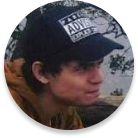
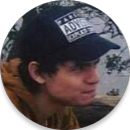
corregido cambios

diff --git a/src/components/CardPersonal.jsx b/src/components/CardPersonal.jsx
@@ -17,19 +17,20 @@ const CardPersonalComponent = () => {
       <div class="col-lg-2 col-xs-4 col-medidas mb-5">
         <div class="card mx-auto my-5 bg-card border-color">
           <div class="row">
-            <div className="col-8">
-              <img
+            <div className="centrado-medio col-8">
+              <img className="foto-linkedin"
                 src={beli}
                 alt="Foto del rostro de la persona 1"
-                class="mx-auto d-block pb-5 pt-2 bg-image"
+                class="mx-auto d-block pb-2 pt-2 bg-image"
               />
             </div>
             <div className="col-4 mt-4">
               <Link
                 target="_blank"
+                
                 to="https://www.linkedin.com/in/belén-oyarce-santibáñez/"
               >
-                <img
+                <img 
                   src={iconoLinkedIn}
                   alt="Icono de la persona 1"
                   class="small rounded-circle mx-auto d-block bg-linkedin"
@@ -46,11 +47,11 @@ const CardPersonalComponent = () => {
       <div class="col-lg-2 col-xs-4 col-medidas mb-5">
         <div class="card mx-auto my-5 bg-card ">
           <div class="row">
-            <div className="col-8">
-              <img
+            <div className="centrado-medio col-8">
+              <img className="foto-linkedin"
                 src={alfo}
                 alt="Foto del rostro de la persona 1"
-                class="mx-auto d-block pb-5 pt-2 bg-image"
+                class="mx-auto d-block pb-2 pt-2 bg-image"
               />
             </div>
             <div className="col-4 mt-4">
@@ -71,14 +72,15 @@ const CardPersonalComponent = () => {
           </h3>
         </div>
       </div>
+      
       <div class="col-lg-2 col-xs-4 col-medidas mb-5">
         <div class="card mx-auto my-5 bg-card ">
           <div class="row">
-            <div className="col-8">
-              <img
+            <div className="centrado-medio col-8">
+              <img className="foto-linkedin"
                 src={ari}
                 alt="Foto del rostro de la persona 1"
-                class="mx-auto d-block pb-5 pt-2 bg-image"
+                class="mx-auto d-block pb-2 pt-2 bg-image"
               />
             </div>
             <div className="col-4 mt-4">
@@ -102,14 +104,20 @@ const CardPersonalComponent = () => {
           </h3>
         </div>
       </div>
+
+
+
+
+
+
       <div class="col-lg-2 col-xs-4 col-medidas mb-5">
         <div class="card mx-auto my-5 bg-card ">
           <div class="row">
-            <div className="col-8">
-              <img
+            <div className="centrado-medio col-8">
+              <img className="foto-linkedin"
                 src={fran}
                 alt="Foto del rostro de la persona 1"
-                class="mx-auto d-block pb-5 pt-2 bg-image"
+                class="mx-auto d-block pb-2 pt-2 bg-image"
               />
             </div>
             <div className="col-4 mt-4">
@@ -133,14 +141,17 @@ const CardPersonalComponent = () => {
           </h3>
         </div>
       </div>
+
+
+
       <div class="col-lg-2 col-xs-4 col-medidas mb-5">
         <div class="card mx-auto my-5 bg-card ">
           <div class="row">
-            <div className="col-8">
-              <img
+            <div className="centrado-medio col-8">
+              <img className="foto-linkedin"
                 src={cono}
                 alt="Foto del rostro de la persona 1"
-                class="mx-auto d-block pb-5 pt-2 bg-image"
+                class="mx-auto d-block pb-2 pt-2 bg-image"
               />
             </div>
             <div className="col-4 mt-4">
@@ -164,6 +175,11 @@ const CardPersonalComponent = () => {
           </h3>
         </div>
       </div>
+
+
+      
+     
+     
     </div>
   );
 };

diff --git a/src/components/CarruselMain.jsx b/src/components/CarruselMain.jsx
@@ -29,7 +29,7 @@ const CarruselMainComponent = () => {
               <div class="col-sm-12 col-12 col-lg-6 col-md-6 pt-5">
                 <h1 class="titulo1">
                   TU
-                  <span class="img-logo">
+                  <span class="img-logo-cliente">
                     <img src={logoCampana} alt="logo campana" />
                   </span>
                 </h1>
@@ -46,9 +46,11 @@ const CarruselMainComponent = () => {
                 <p class="texto-info2 col-sm-12 col-12 ">
                   en donde quieras y revisar los mejores precios.
                 </p>
-                <button class="boton-reservar" type="btn">
+                  <a href="/reserva">
+                <button  class="boton-reservar" type="btn">
                   <span class="boton-reservar-texto">Reserva aquí</span>
                 </button>
+                  </a>
               </div>
               <div class="container col-sm-12 col-12 col-lg-6 col-md-6 pt-5">
                 <div class="row">
@@ -56,10 +58,14 @@ const CarruselMainComponent = () => {
                     <span>
                       <img src={logoUsuario} alt="logo usuario" />
                     </span>
+                    <a href="/registroadmin">
+                      
                     <span class="boton-admin-texto">
                       Soy Administrador o propietario de un recinto, necesito
                       información para unirme a <strong>Keepe</strong>
                     </span>
+                 
+                    </a>
                   </button>
                 </div>
               </div>

diff --git a/src/Assets/css/styleCardPersonal.css b/src/Assets/css/styleCardPersonal.css
@@ -9,11 +9,34 @@
   background-color: white;
 }
 
+.centrado-medio{
+  padding-left: 4rem;
+  padding-top: 1rem;
+}
+
+.foto-linkedin {
+  
+  padding-left: 1rem;
+  padding-top: 1rem;
+  padding-bottom: 1rem;
+  width: 10rem;
+  height: 10rem;
+}
+
+.foto-linkedin:hover {
+  
+  padding-left: 1rem;
+  padding-top: 1rem;
+  padding-bottom: 1rem;
+  width: 12rem;
+  height: 12rem;
+}
+
 .titulo-color {
   font-family: "Quicksand";
   font-style: normal;
   font-weight: 700;
-  font-size: 26px;
+  font-size: 25px;
   line-height: 32px;
   text-align: center;
   color: #ffffff;
@@ -22,19 +45,29 @@
   font-family: "Kumbh Sans";
   font-style: normal;
   font-weight: 400;
-  font-size: 24px;
+  font-size: 20px;
   line-height: 145%;
   text-align: center;
   color: #ffffff;
+  padding-left: 0.5rem;
+  padding-right: 0.5rem;
 }
 .col-medidas {
   width: 271.62px;
   height: 315px;
 }
 
+.centrado-medio:hover{
+  padding-left: 2.3rem;
+  padding-top: 1rem;
+}
+
 .bg-image:hover {
-  width: 102%;
-  height: 102%;
+  padding-left: 1rem;
+  padding-top: 1rem;
+  padding-bottom: 1rem;
+  width: 11rem;
+  height: 11rem;
 }
 
 .titulo-principal-color {

diff --git a/src/Assets/css/stylesCardReserva.css b/src/Assets/css/stylesCardReserva.css
@@ -47,7 +47,7 @@
   border-bottom-left-radius: 20px;
   border-bottom-right-radius: 20px;
   
-  border-color: #886eb2;
+  border-color: #a79eb5;
   border-top-color: #4d307b;
 }
 
@@ -69,7 +69,8 @@
   background-color: #4d307b;
   border-top-left-radius: 20px;
   border-top-right-radius: 20px;
-  border-bottom-color: #4d307b;
+  border-color: white;
+  border-bottom-color: #7052a0;
 }
 
 .raquiImagen3 {
@@ -79,7 +80,8 @@
   background-color: #4d307b;
   border-top-left-radius: 20px;
   border-top-right-radius: 20px;
-  border-bottom-color: #4d307b;
+  border-color: white;
+  border-bottom-color: #7052a0;
 }
 
 .raquiImagen4 {
@@ -89,7 +91,8 @@
   background-color: #4d307b;
   border-top-left-radius: 20px;
   border-top-right-radius: 20px;
-  border-bottom-color: #4d307b;
+  border-color: white;
+  border-bottom-color: #7052a0;
 }
 
 .raquiTextoImagen {

diff --git a/src/index.js b/src/index.js
@@ -1,17 +1,5 @@
-import React from 'react';
-import ReactDOM from 'react-dom/client';
-import './index.css';
-import App from './App';
-import reportWebVitals from './reportWebVitals';
+import React from "react";
+import ReactDOM from "react-dom";
+import App from "./App";
 
-const root = ReactDOM.createRoot(document.getElementById('root'));
-root.render(
-  <React.StrictMode>
-    <App />
-  </React.StrictMode>
-);
-
-// If you want to start measuring performance in your app, pass a function
-// to log results (for example: reportWebVitals(console.log))
-// or send to an analytics endpoint. Learn more: https://bit.ly/CRA-vitals
-reportWebVitals();
+ReactDOM.render(<App />, document.querySelector("#root"));

diff --git a/src/Assets/css/styleCarruselMain.css b/src/Assets/css/styleCarruselMain.css
@@ -1,3 +1,7 @@
+a:link, a:visited, a:active {
+  text-decoration:none;
+}
+
 #maincarrusel .carousel-inner img {
   max-height: 70vh;
   object-fit: cover;
@@ -50,7 +54,21 @@
   letter-spacing: 0.9rem;
   font-size: 80px;
 }
+
+.img-logo-cliente {
+  margin-left: 1.2rem;
+  
+}
+
+.img-logo-cliente img {
+  
+  width: 90px;
+  height: 90px;
+}
+
+
 .img-logo img {
+  
   width: 90px;
   height: 90px;
 }
@@ -124,6 +142,7 @@
   font-weight: 400;
   padding: 10px;
   text-shadow: 0.5px 1px 1px black;
+  text-decoration:none;
 }
 .boton-admin img {
   width: 30px;

diff --git a/src/components/Bootcard.jsx b/src/components/Bootcard.jsx
@@ -60,7 +60,7 @@ export default function BootCard() {
             </Link>
           </button>
           <button class="raquiBoton w-100" href="#">
-            <Link href="/iniciarsesion" class="ancla-style">
+            <Link to="/iniciarsesion" class="ancla-style">
               <h1 class="raqui">Reserva aquí</h1>
             </Link>
           </button>

diff --git a/src/Assets/css/stylesForm.css b/src/Assets/css/stylesForm.css
@@ -7,11 +7,12 @@
 
 .botonIngresar {
   color: white;
-  font-family: Quicksand;
+  font-family: KUMBH SANS;
 }
 
 .botonIngresar:hover {
   height: 180%;
+  color: #f23faa
 }
 #exclamacion {
   color: rgb(212, 50, 50);
